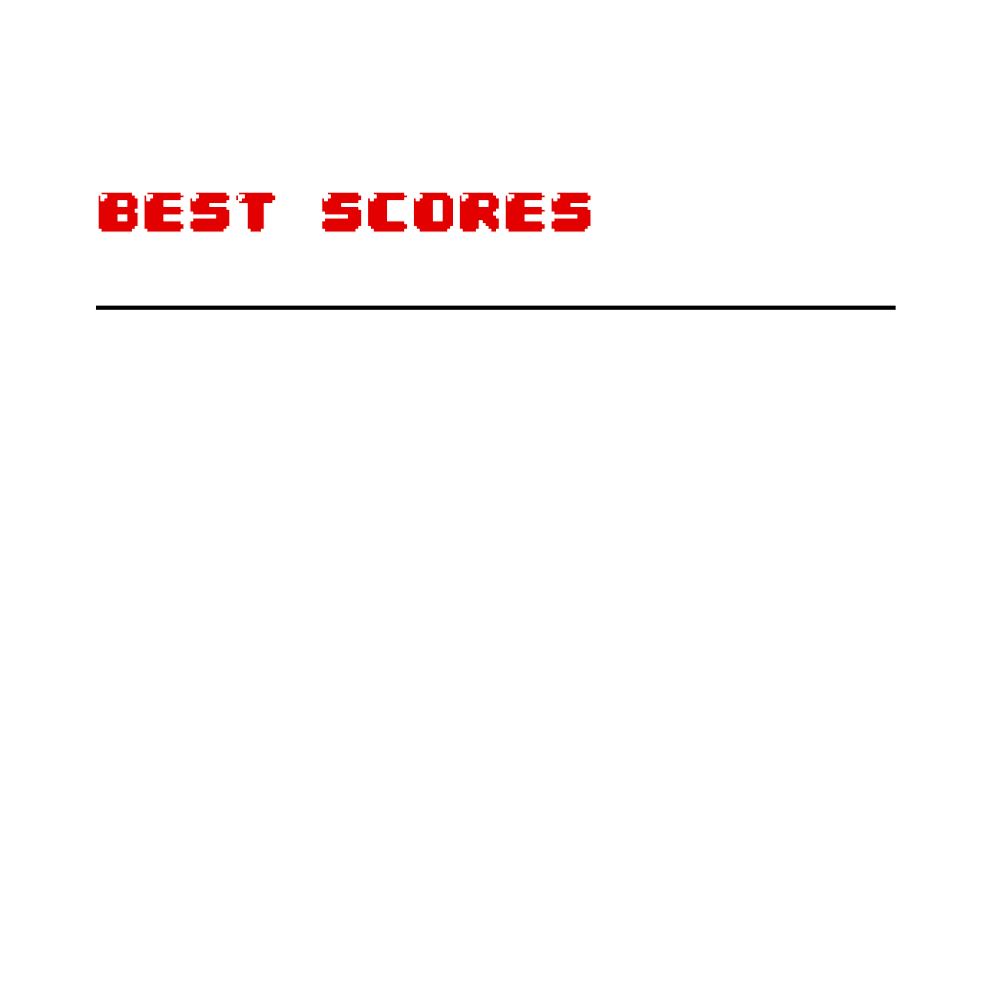
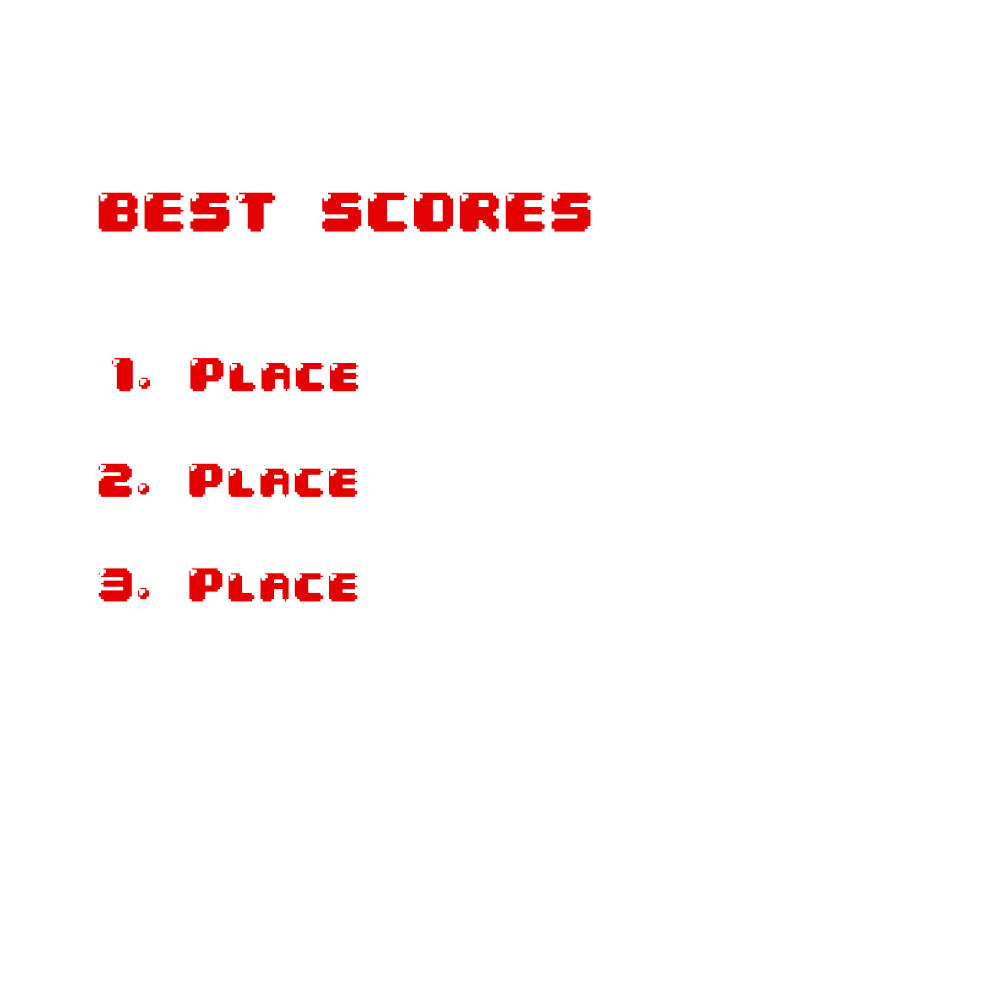
Impresion en High Score

diff --git a/Main_Menu.py b/Main_Menu.py
@@ -33,6 +33,7 @@ from time import sleep
 from random import randint
 from Directorys_Settings import SCREEN, CLOCK, FPS, W, H, f_music, f_coin, sfx_button_click, img_cars, arcade_menu, img_cursor, img_credits, f_backgrounds, sfx_perseo, sfx_blood_tombos, sfx_powerup
 from Directorys_Settings import background_menu, background_load, arcade_game,img_load, background_car, background_h_s,background_ht_play, img_htp, sfx_blood_oldwoman, sfx_blood_porky, img_hs, f_vfx
+from Game_functions import hg_score, score_print
 import Game_Loop  # Importamos el módulo [ Game_Loop ]
 
 # ----------------------------------------- Inicializar Pygame y Pygame Mixer ------------------------------------------------------------------------------------
@@ -81,12 +82,13 @@ def main_menu():  # Funcion del menu principal
                     if select != 0:
                         sleep(1)
                         load_game()
-                        result = Game_Loop.game_loop(select)
+                        final_score = Game_Loop.game_loop(select)
                         load_game()
                         music.load(join(f_music,'Menu_Music.ogg'))
                         music.set_volume(0.3)
                         music.play(loops=-1)
-                        print(result)# print de prueba 
+                        save = open('High_Scores.txt','a')
+                        save.write('\n'+ str(final_score))
                 if button_hs.collidepoint(mouse.get_pos()):          # revisa si el click colisiono con el boton high score
                     sfx_button_click.play()
                     high_score()                                     # llamamos a la funcion con el menu High Score                     
@@ -212,6 +214,7 @@ def vehicle_select(): # Funcion para mostrar pantalla de selccion de vehiculo
     return vechicle                       
 
 def high_score(): # Funcion para mostrar el puntaje mas alto logrado
+    score_1,score_2,score_3 = hg_score()
     hs = True
     coin = 1                                 
     x_mov = 0
@@ -240,6 +243,12 @@ def high_score(): # Funcion para mostrar el puntaje mas alto logrado
 
         SCREEN.blit(img_hs,(0,0))
         print_buttons(button_back,'BACK',menu_font)
+        score_print(score_1.zfill(10),650,379,(0,0,0),50)
+        score_print(score_1.zfill(10),650,375,(255,255,255),50)
+        score_print(score_2.zfill(10),650,484,(0,0,0),50)
+        score_print(score_2.zfill(10),650,480,(255,255,255),50)
+        score_print(score_3.zfill(10),650,584,(0,0,0),50)
+        score_print(score_3.zfill(10),650,580,(255,255,255),50)
         SCREEN.blit(scale(load(join(f_vfx,f'Bongo_Cat_{bongo}.png')).convert_alpha(),(198,198)),(650,110))
         SCREEN.blit(img_cursor,(mouse_pos[0],mouse_pos[1]))
         SCREEN.blit(arcade_menu,(0,0))

diff --git a/Game_functions.py b/Game_functions.py
@@ -38,15 +38,20 @@ from Directorys_Settings import arcade_pause,arcade_game_over,arcade_lose,img_pa
 
 # ----------------------------------------- Funciones = Imprimir texto / Pausar / Choque / Arresto / Game_Over -----------------------------------------
 
-def score_print(SCREEN,score,x,y,color,size): # Funcion para imprimir la puntuación en pantalla
+def score_print(score,x,y,color,size): # Funcion para imprimir la puntuación en pantalla
 	score_font = Font('04B30.ttf', size)          # Creamos un objeto de la clase Font() que usaremos como fuente para imprimirla en pantalla, usamos el archivo .ttf ubicado en la carpeta raiz y un tamaño
 	surface = score_font.render(score,True,color) # Creamos una superficie para poner el texto y mostrarlo en pantalla, especificamos el texto, True para usar anti-aliased y el color del texto
 	size_text = surface.get_rect()                # Creamos el rectangulo en base al tamaño final de la superficie ( que cambiara cada vez que cambie el texto )
 	size_text.center = (x,y)                      # Centramos el rectangulo en la posicion deseada de la pantalla
 	SCREEN.blit(surface,size_text)                # en la ventana SCREEN con el metodo .blit() dibujamos una superficie ( el texto ) del tamaño del texto final de esta ( el rectangulo)
 	
-def hg_score(final_score): # Funcion para guardar el puntaje maximo logrado
-	pass
+def hg_score(): # Funcion para guardar el puntaje maximo logrado
+	f = open("High_Scores.txt", "r")
+	a = f.readline()
+	b = f.readline()
+	c = f.readline()
+	f.close()
+	return a.strip(),b.strip(),c.strip()
 
 def pause(): # Funcion para pausar el juego
 	pause = True
@@ -146,7 +151,7 @@ def game_over(why,score): # Funcion para llamar a la animacion y "menu" game ove
 			SCREEN.blit(load(join(f_vfx,f'Smoke_{fps_8}.png')).convert_alpha(),(510,450))
 			SCREEN.blit(load(join(f_vfx,f'Fire_02_{fps_4}.png')).convert_alpha(),(415,570))
 
-		score_print(SCREEN,str(score).zfill(10),720,180,(236,219,83),30)  # el metodo .zfill() nos ayuda a rellenar con 0 un texto
+		score_print(str(score).zfill(10),720,180,(236,219,83),30)  # el metodo .zfill() nos ayuda a rellenar con 0 un texto
 		SCREEN.blit(arcade_game_over,(0,0))
 		fps_4 += 1
 		fps_8 += 1
@@ -157,12 +162,3 @@ def game_over(why,score): # Funcion para llamar a la animacion y "menu" game ove
 			fps_8 = 1
 		display.update()
 	SCREEN.fill((0,0,0)) # Al salir del game over, para que no se muestre como quedo la posicion de los enemigos y demas cuando se pauso el juego al perder, pintamos todo de negro y salimos
-
-
-def puntaje ():
-
-    Best = [5,4,4,9,8,10,5000]
-
-    print(max([int(num) for num in Best]))
-
-puntaje()

diff --git a/Game_Loop.py b/Game_Loop.py
@@ -68,7 +68,7 @@ def game_loop(car): # Blucle del juego
 	music.play(loops=-1)  
 	sfx_low_fuel.set_volume(0.05) # El metodo set_volume() nos ayuda a reducir o aumentar el volumen de los sonidos, entre 0 y 1
 	score = 0                     # Iniciamos el puntaje en 0
-	remaining_fuel= 5           # Creamos la cantidad inicial de combustible que tendra el jugador
+	remaining_fuel= 219           # Creamos la cantidad inicial de combustible que tendra el jugador
 	mov_y = 0                     # Variable para mover el fondo ( la imagen del mapa en este caso )
 
 	while game:
@@ -188,7 +188,7 @@ def game_loop(car): # Blucle del juego
 			pygame.draw.rect(SCREEN,(100,200,100),(418, 941, remaining_fuel, 15))  
 		
 		remaining_fuel -= 0.06  # reducimos la gasolina al final de cada ejecución
-		score_print(SCREEN,str(score).zfill(10),540,900,(0,0,0),20)  # Una vez impresas todas las imagenes, imprimimos el puntaje para que quede encima de todas las capas y sea visible
+		score_print(str(score).zfill(10),540,900,(0,0,0),20)  # Una vez impresas todas las imagenes, imprimimos el puntaje para que quede encima de todas las capas y sea visible
 		mov_y += 15
 		pygame.display.update()
 	return score # al terminar el juego y que game = False , entonces como final de la funcion game_loop() retornamos el puntaje que nos dio el juego para usarlo

diff --git a/archivo.py b/archivo.py
@@ -3,7 +3,6 @@ import operator
 from dire import clients
 
 # aca deberia ir el diccionario con las variables nombres y score, el nombre como clave y score como valor, cada vez que termina una partida se agrega al diccionario
-
 def save_game(name,score):
 	clients[str(name)] = score
 
